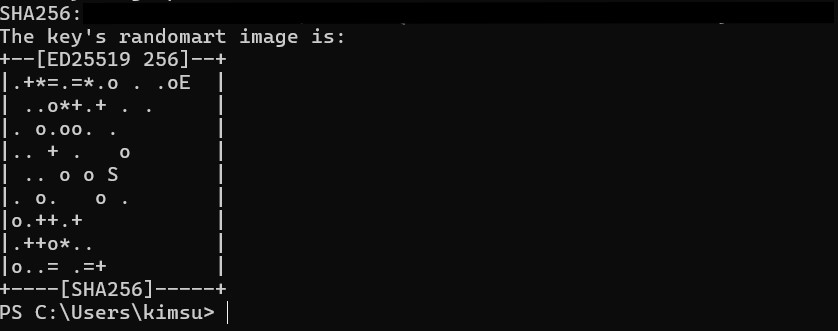
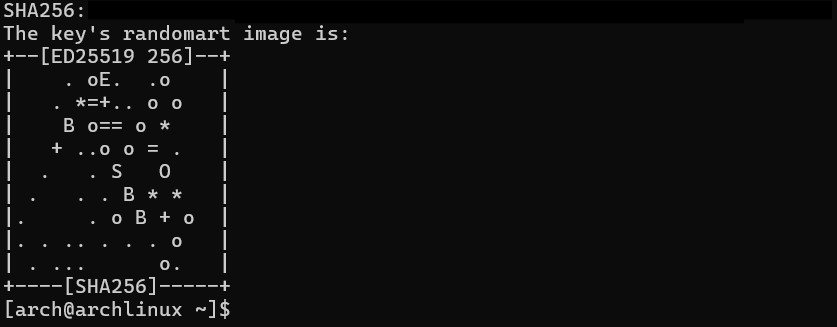
Redid sshkey in arch linux

diff --git a/README.md b/README.md
@@ -18,15 +18,7 @@ We need to create a SSH Key to securely connect to your remote server. SSH is an
 
 **Step 1:** Open the **Terminal** on your device
 
-> **Note:** Step 2 & 3 are for users who do not have a .ssh folder. You can check if you have an .ssh folder with the following code `ls .\.ssh\`
-
-**Step 2:** Type ``cd ~`` into the terminal and press **Enter**
-> This will change your directory into your user file, where we will create the SSH Key.
-
-**Step 3:** Type ``mkdir .ssh`` into the terminal and press **Enter**
-> This will create a new folder called **ssh** on your device
-
-**Step 4:** Type this code into your terminal
+**Step 2:** Type this code into your terminal
 ```
 ssh-keygen -t ed25519 -f C:\Users\your-username\.ssh\key-name -C "your-email-address"
 ```
@@ -39,26 +31,31 @@ ssh-keygen -t ed25519 -f C:\Users\your-username\.ssh\key-name -C "your-email-add
 
 > Your key should look something like this
 
+**Step 3:** Check that both your private key and public are in the .ssh directory by typing `cd ~/.ssh` and then `ls`
+
+![Keys in .ssh folder](Images/checkingbothkeys.jpg)
+
+> If both keys are present than you have successfully created the keys
+
 **Congratulations you have successfully created a SSH Key Pair!**
 
 ## Installing and Configuring `doctl`
 
 ### What is `doctl`?
-Doctl is short for DigitalOcean Control, and it is the official command-line interface for the DigitalOcean API. It allows you to use your local command line to interact with DigitalOcean resources. For this tutorial we will be using `doctl` to help us create our Droplet
+`doctl` is the DigitalOcean CLI used for interacting with your DigitalOcean account and managing resources. For this tutorial we will be using `doctl` to help us create our Droplet from a existing Droplet
 > We will be splitting this step into 4 simple parts:
-> 1. Installing `doctl` on your local device
+> 1. Installing `doctl` on Arch Linux
 > 2. Creating an API token
 > 3. Using the API token to grant account access to `doctl`
 > 4. Validate that `doctl` is working
 
-### Installing `doctl` on your local device
->**Note:** We are installing `doctl` for windows devices. If your device is running a different OS system, we recommend looking at the official DigitalOcean `doctl` installation documents for code relative to your operating system.
+### Installing `doctl` on Arch Linux
 
 **Step 1:** Open your **Terminal** 
 
 **Step 2:** Run the code below in your Terminal
 ```
-Invoke-WebRequest https://github.com/digitalocean/doctl/releases/download/v1.110.0/doctl-1.110.0-windows-amd64.zip -OutFile ~\doctl-1.110.0-windows-amd64.zip
+
 ```
 
 **Step 3:** Extract the binary by running the code below
